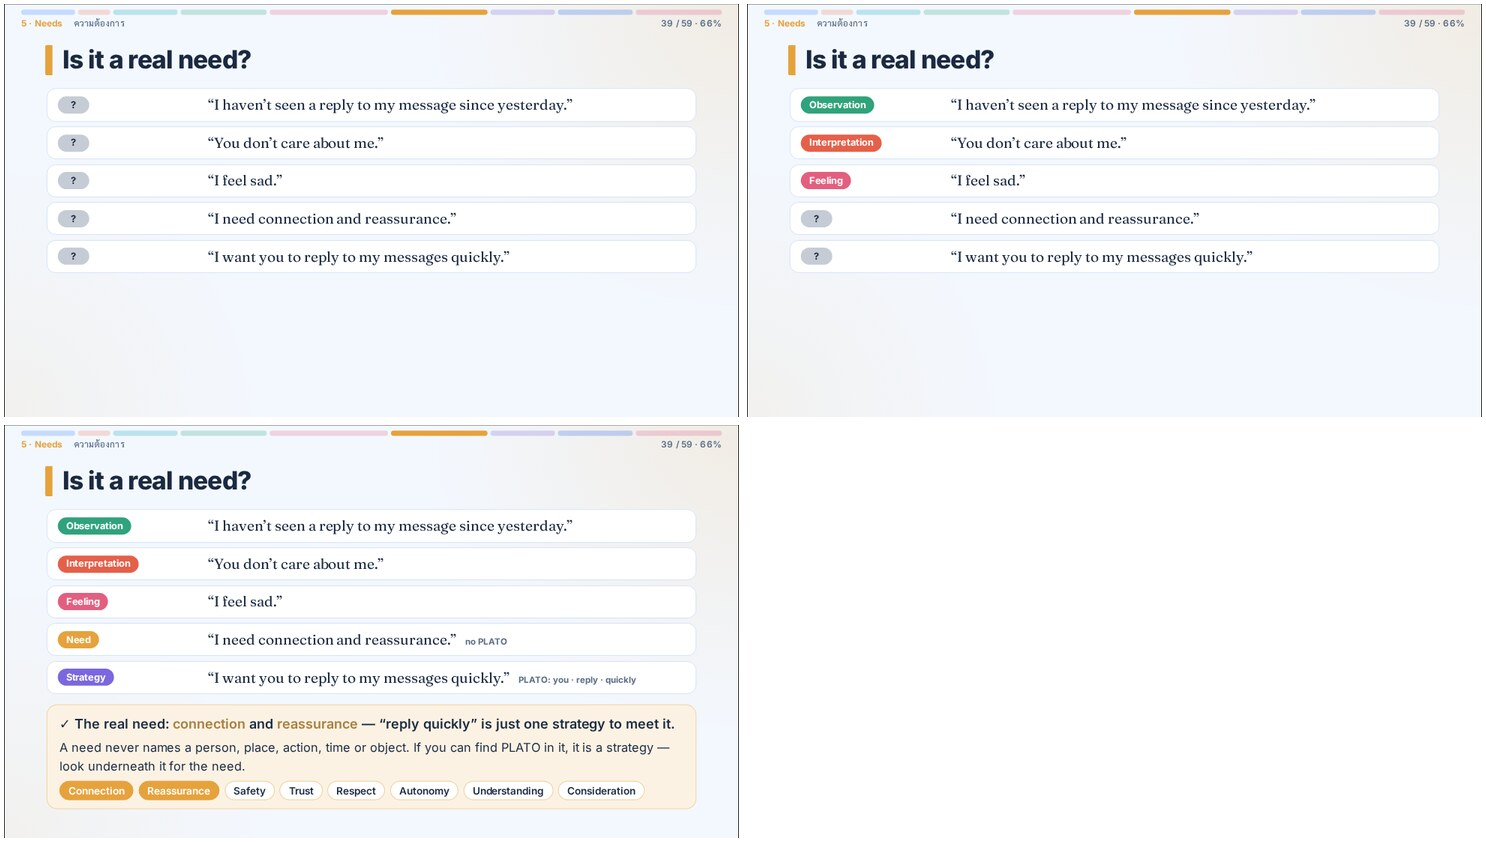
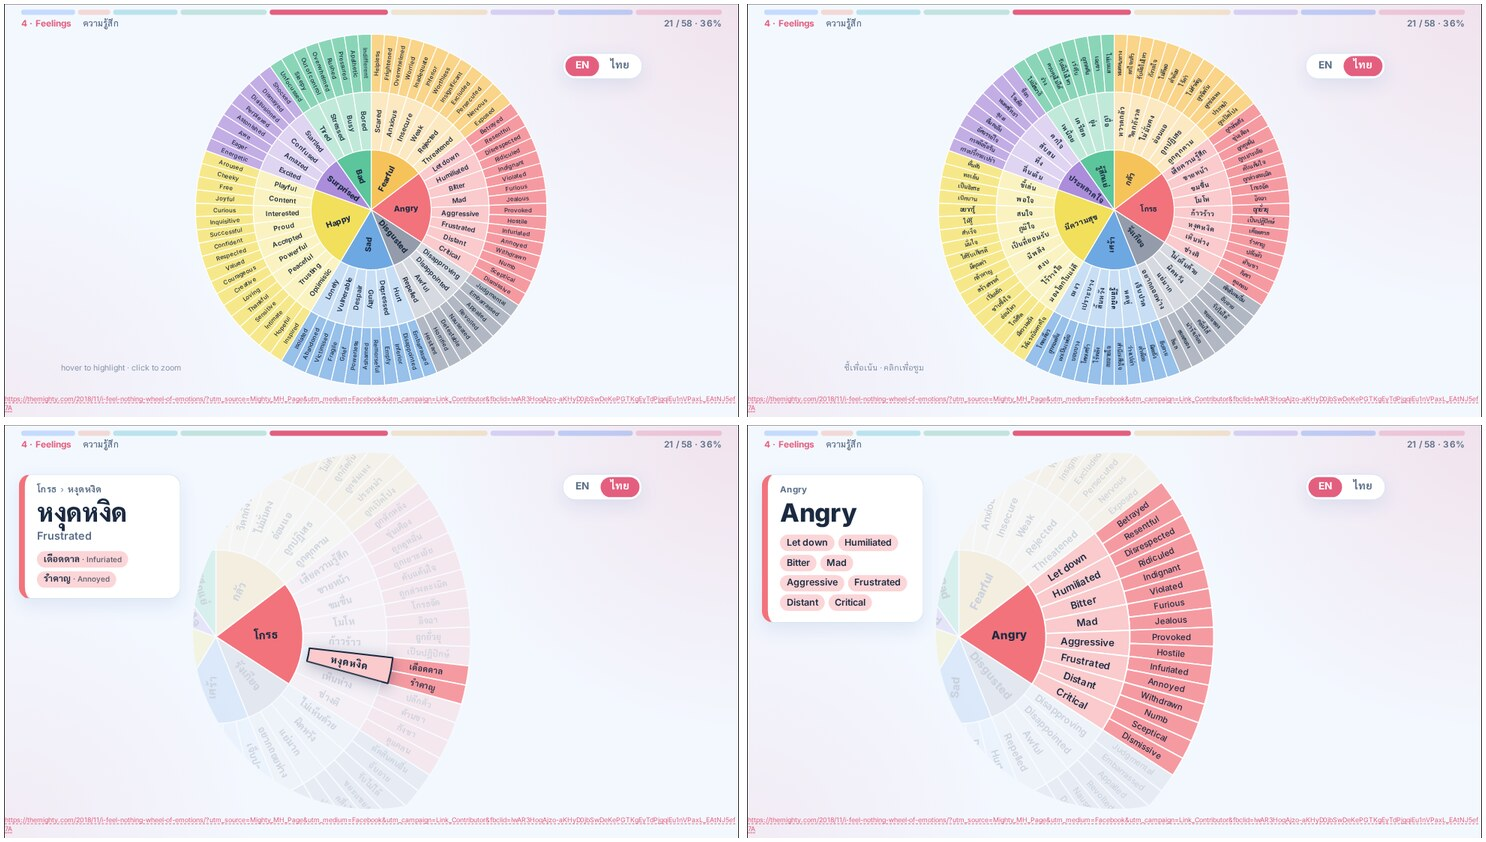
Update feeling wheel and slides

diff --git a/slide/components/FeelingWheel.vue b/slide/components/FeelingWheel.vue
@@ -9,8 +9,10 @@
 //     fades, and the word is shown large in the side panel
 //   • click any word → zoom into that whole category; click again (or Esc) to reset
 //
-// <FeelingWheel lang="th" /> shows the Thai version (side panel also shows English).
-import { computed, onBeforeUnmount, onMounted, ref } from 'vue'
+//   • EN / ไทย button (top right of the wheel) switches the language;
+//     in Thai the side panel also shows the English word.
+// <FeelingWheel lang="th" /> starts in Thai.
+import { computed, onBeforeUnmount, onMounted, ref, useId } from 'vue'
 import { useSlideContext } from '@slidev/client'
 
 const props = withDefaults(defineProps<{ lang?: 'en' | 'th' }>(), { lang: 'en' })
@@ -130,8 +132,15 @@ const TH: Record<string, string> = {
   'Busy': 'ยุ่ง', 'Rushed': 'เร่งรีบ', 'Pressured': 'ถูกกดดัน',
   'Bored': 'เบื่อ', 'Apathetic': 'เฉยชา', 'Indifferent': 'ไม่แยแส',
 }
-const isTh = computed(() => props.lang === 'th')
-const clipId = `fw-clip-${props.lang}`
+const lang = ref<'en' | 'th'>(props.lang)
+const isTh = computed(() => lang.value === 'th')
+const swapping = ref(false)
+function setLang(l: 'en' | 'th') {
+  if (l === lang.value) return
+  swapping.value = true
+  setTimeout(() => { lang.value = l; swapping.value = false }, 160)
+}
+const clipId = `fw-clip-${useId()}`
 const t = (en: string) => (isTh.value ? TH[en] ?? en : en)
 
 const C = 500
@@ -255,7 +264,11 @@ const play = computed(() =>
 </script>
 
 <template>
-  <div class="fw" :class="{ th: isTh }">
+  <div class="fw" :class="{ th: isTh, swapping }">
+    <div class="lang-toggle" role="group" aria-label="Language">
+      <button :class="{ on: !isTh }" @click.stop="setLang('en')">EN</button>
+      <button :class="{ on: isTh }" @click.stop="setLang('th')">ไทย</button>
+    </div>
     <svg class="wheel" :class="{ play, active }" viewBox="0 0 1000 1000" role="img" :aria-label="isTh ? 'วงล้อความรู้สึก' : 'Feelings wheel'" @click.self="reset">
       <defs><clipPath :id="clipId"><circle :cx="C" :cy="C" r="499" /></clipPath></defs>
       <rect x="0" y="0" width="1000" height="1000" fill="transparent" @click="reset" />
@@ -322,6 +335,23 @@ text {
 .play .mids { animation: w-in .7s cubic-bezier(.2,.8,.2,1) .25s both; }
 .play .outers { animation: w-in .8s cubic-bezier(.2,.8,.2,1) .5s both; }
 @keyframes w-in { from { opacity: 0; transform: rotate(-25deg) scale(.85); } to { opacity: 1; transform: none; } }
+
+/* language switch (sits in the empty space right of the wheel) */
+.lang-toggle {
+  position: absolute; left: calc(100% + 1rem); top: 6%;
+  display: flex; padding: 3px; gap: 2px;
+  background: var(--card); border: 1px solid var(--rule); border-radius: 999px;
+  box-shadow: var(--shadow); z-index: 5;
+}
+.lang-toggle button {
+  font: 700 0.85rem/1 Inter, Sarabun, sans-serif; color: var(--muted);
+  padding: 0.42rem 0.85rem; border-radius: 999px; cursor: pointer;
+  background: transparent; border: none; transition: background .2s, color .2s;
+}
+.lang-toggle button.on { background: var(--m); color: #fff; }
+.lang-toggle button:not(.on):hover { color: var(--ink); }
+.wheel text, .panel { transition: opacity .16s ease; }
+.swapping .wheel text, .swapping .panel { opacity: 0; }
 
 /* side panel (sits in the empty space left of the wheel) */
 .panel {

diff --git a/slide/slides.md b/slide/slides.md
@@ -488,25 +488,9 @@ module: 4
 https://themighty.com/2018/11/i-feel-nothing-wheel-of-emotions/?utm_source=Mighty_MH_Page&utm_medium=Facebook&utm_campaign=Link_Contributor&fbclid=IwAR3HoqAjzo-aKHyD0jbSwDeKePGTKgEyTdPjgqiEu1nVPaxL_EAtNJ5ef7A
 
 Anger, Sadness, Fear. Joy
--->
 
----
-module: 4
----
-
-<!-- Added: Thai version of slide 27 (วงล้อความรู้สึก) -->
-<div class="absolute inset-0 flex flex-col items-center pt-9 pb-2">
-  <div class="flex-1 min-h-0 aspect-square">
-    <FeelingWheel lang="th" />
-  </div>
-  <div class="source-url mt-2"><a href="https://themighty.com/2018/11/i-feel-nothing-wheel-of-emotions/?utm_source=Mighty_MH_Page&utm_medium=Facebook&utm_campaign=Link_Contributor&fbclid=IwAR3HoqAjzo-aKHyD0jbSwDeKePGTKgEyTdPjgqiEu1nVPaxL_EAtNJ5ef7A" target="_blank">https://themighty.com/2018/11/i-feel-nothing-wheel-of-emotions/?utm_source=Mighty_MH_Page&utm_medium=Facebook&utm_campaign=Link_Contributor&fbclid=IwAR3HoqAjzo-aKHyD0jbSwDeKePGTKgEyTdPjgqiEu1nVPaxL_EAtNJ5ef7A</a></div>
-</div>
-
-<!--
-วงล้อความรู้สึก (ฉบับภาษาไทย) — คำแปลเดียวกับวงล้อภาษาอังกฤษในสไลด์ก่อนหน้า
-ชี้ที่คำเพื่อเน้น (แผงด้านซ้ายแสดงคำไทยพร้อมคำภาษาอังกฤษ) · คลิกเพื่อซูมหมวด · กด Esc เพื่อกลับ
-
-โกรธ · เศร้า · กลัว · มีความสุข (Anger, Sadness, Fear. Joy)
+(EN / ไทย button at the top right of the wheel switches to the Thai version: โกรธ · เศร้า · กลัว · มีความสุข.
+Hover a word to highlight it, click to zoom into its category, Esc to reset.)
 -->
 
 ---
